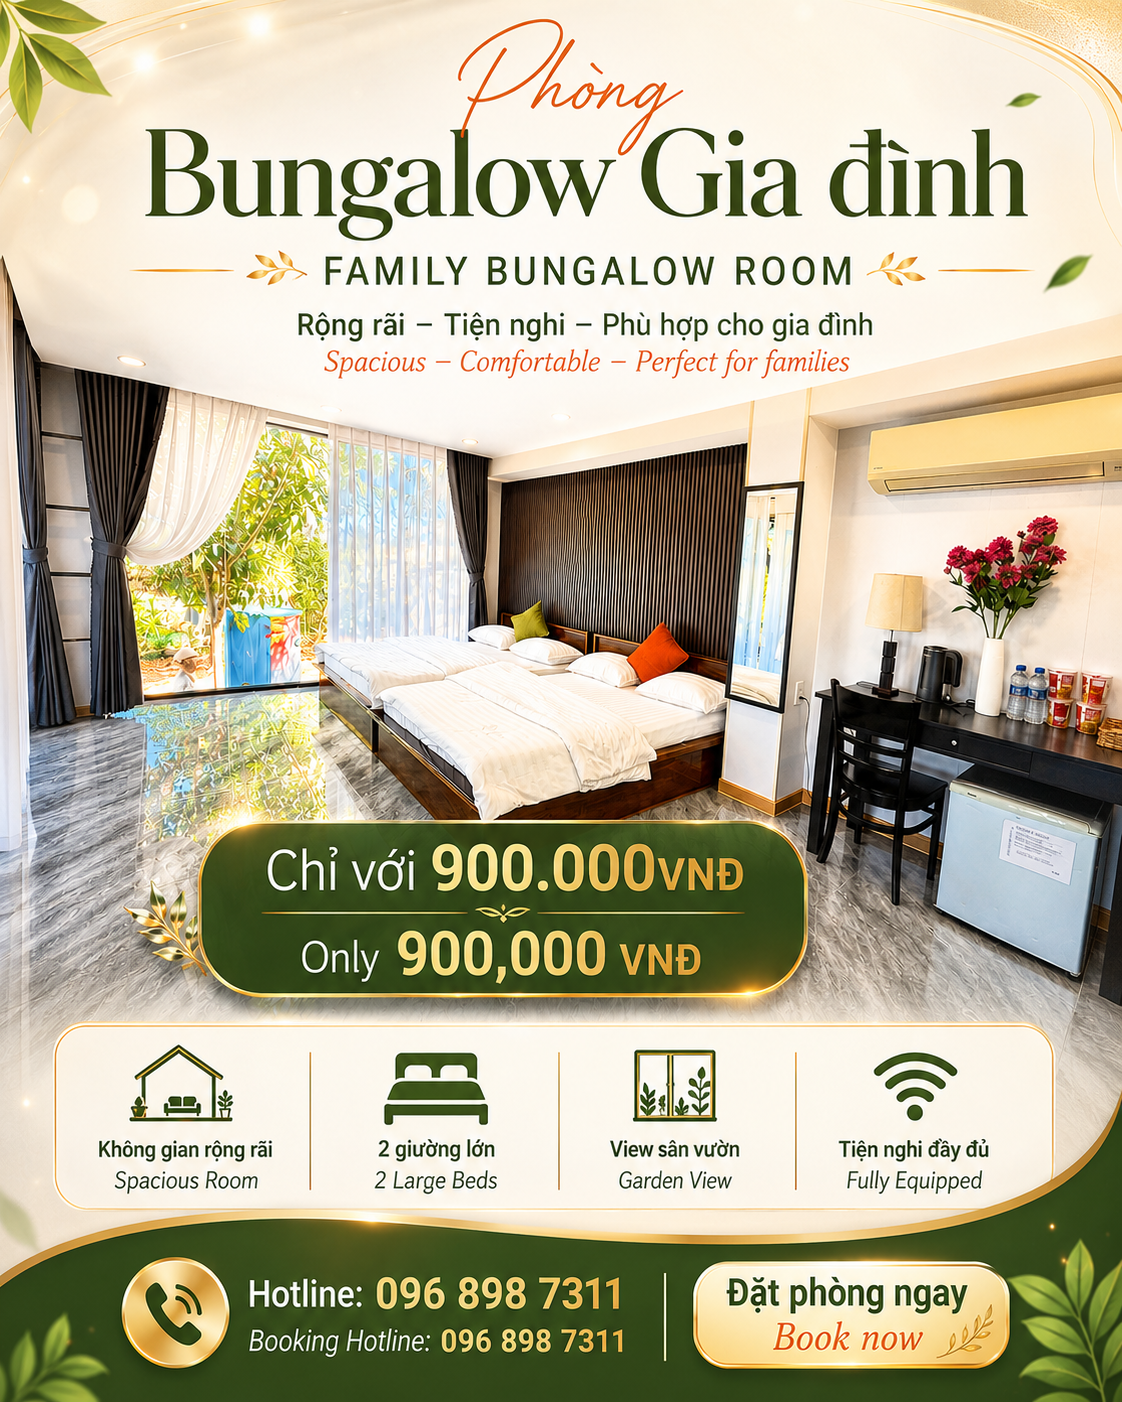
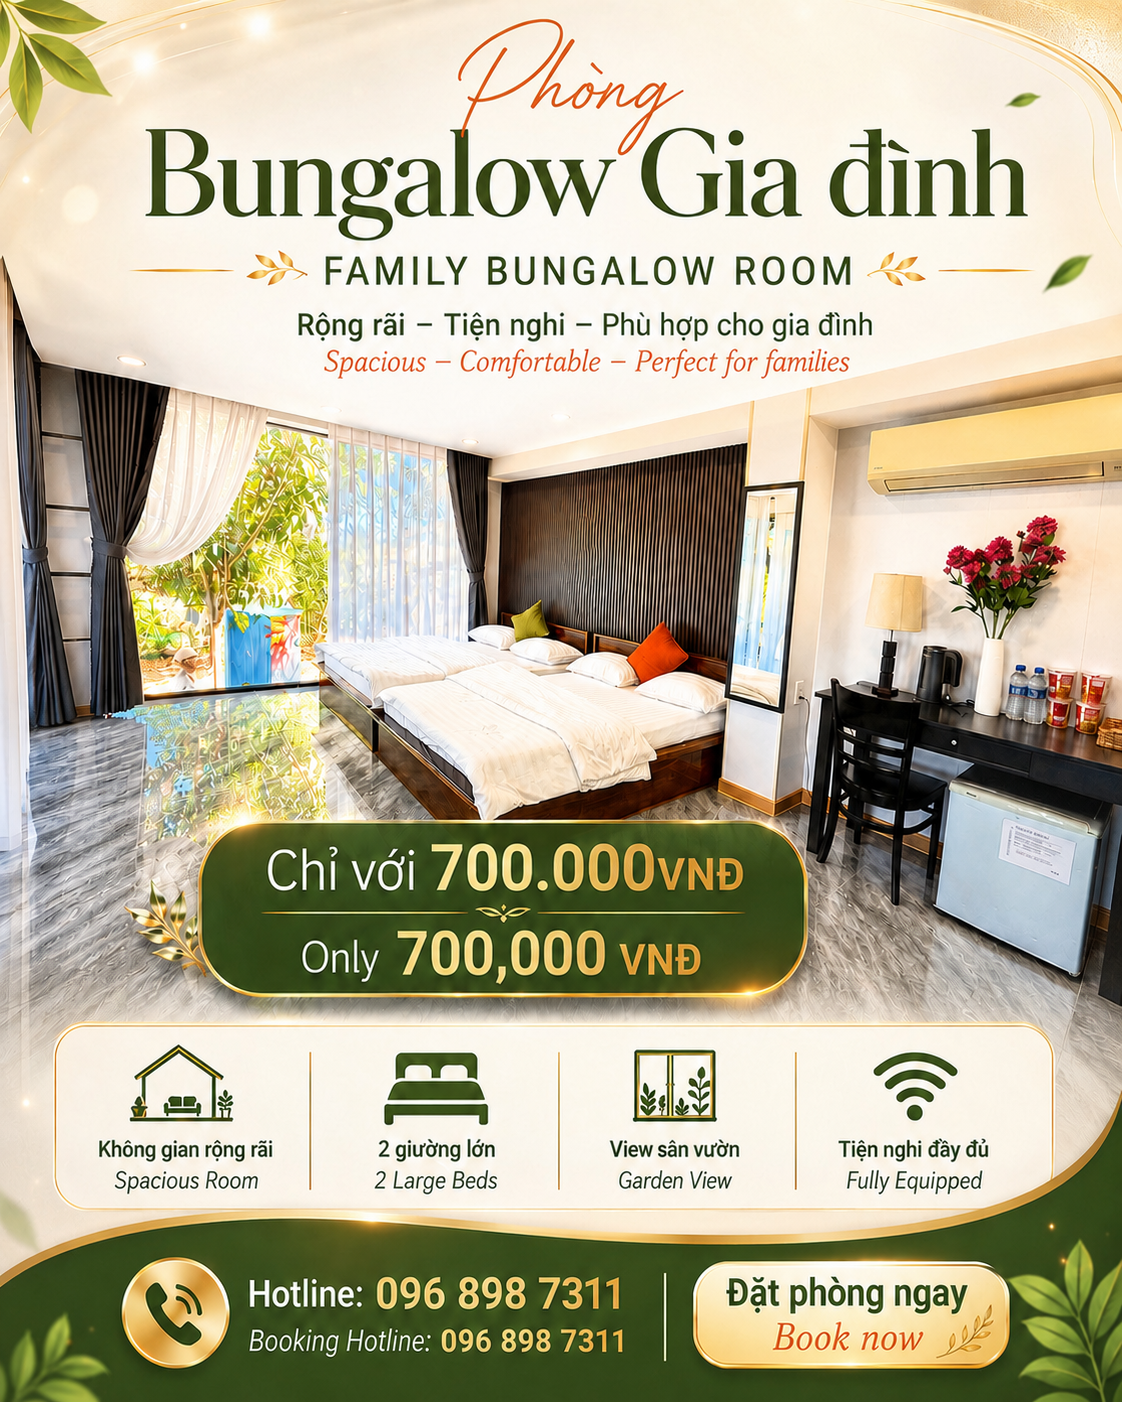
fix(V2): update Bungalow & Dormitory room photos and pricing
- New photos for room-bungalow.jpg and room-dormitory.jpg
- Bungalow: 900.000đ/900k → 700.000đ/700k per night
- Phòng Tập Thể (Dormitory): switched from 150.000đ/person to flat
  1.200.000đ/night (no longer billed per head)

diff --git a/index.html b/index.html
@@ -2136,8 +2136,8 @@
           <option>Circle House — 600.000đ/đêm</option>
           <option>Ê Đê Cozy House — 700.000đ/đêm</option>
           <option>VIP House — 900.000đ/đêm</option>
-          <option>Bungalow Gia Đình — 900.000đ/đêm</option>
-          <option>Phòng Tập Thể — 150.000đ/người</option>
+          <option>Bungalow Gia Đình — 700.000đ/đêm</option>
+          <option>Phòng Tập Thể — 1.200.000đ/đêm</option>
         </select>
       </div>
       <button class="booking-submit" onclick="handleBooking()">Gửi Yêu Cầu Kiểm Tra Phòng →</button>
@@ -2285,7 +2285,7 @@
           <div class="room-image">
             <img src="./images/room-bungalow.jpg" alt="Bungalow Gia Đình">
             <span class="room-badge">Bungalow</span>
-            <span class="room-price-tag">900k/đêm</span>
+            <span class="room-price-tag">700k/đêm</span>
           </div>
           <div class="room-body">
             <div class="room-name-vi">Bungalow Gia Đình</div>
@@ -2302,7 +2302,7 @@
           <div class="room-image">
             <img src="./images/room-dormitory.jpg" alt="Phòng Tập Thể">
             <span class="room-badge">Tập Thể</span>
-            <span class="room-price-tag">150k/người</span>
+            <span class="room-price-tag">1.2M/đêm</span>
           </div>
           <div class="room-body">
             <div class="room-name-vi">Phòng Tập Thể</div>
